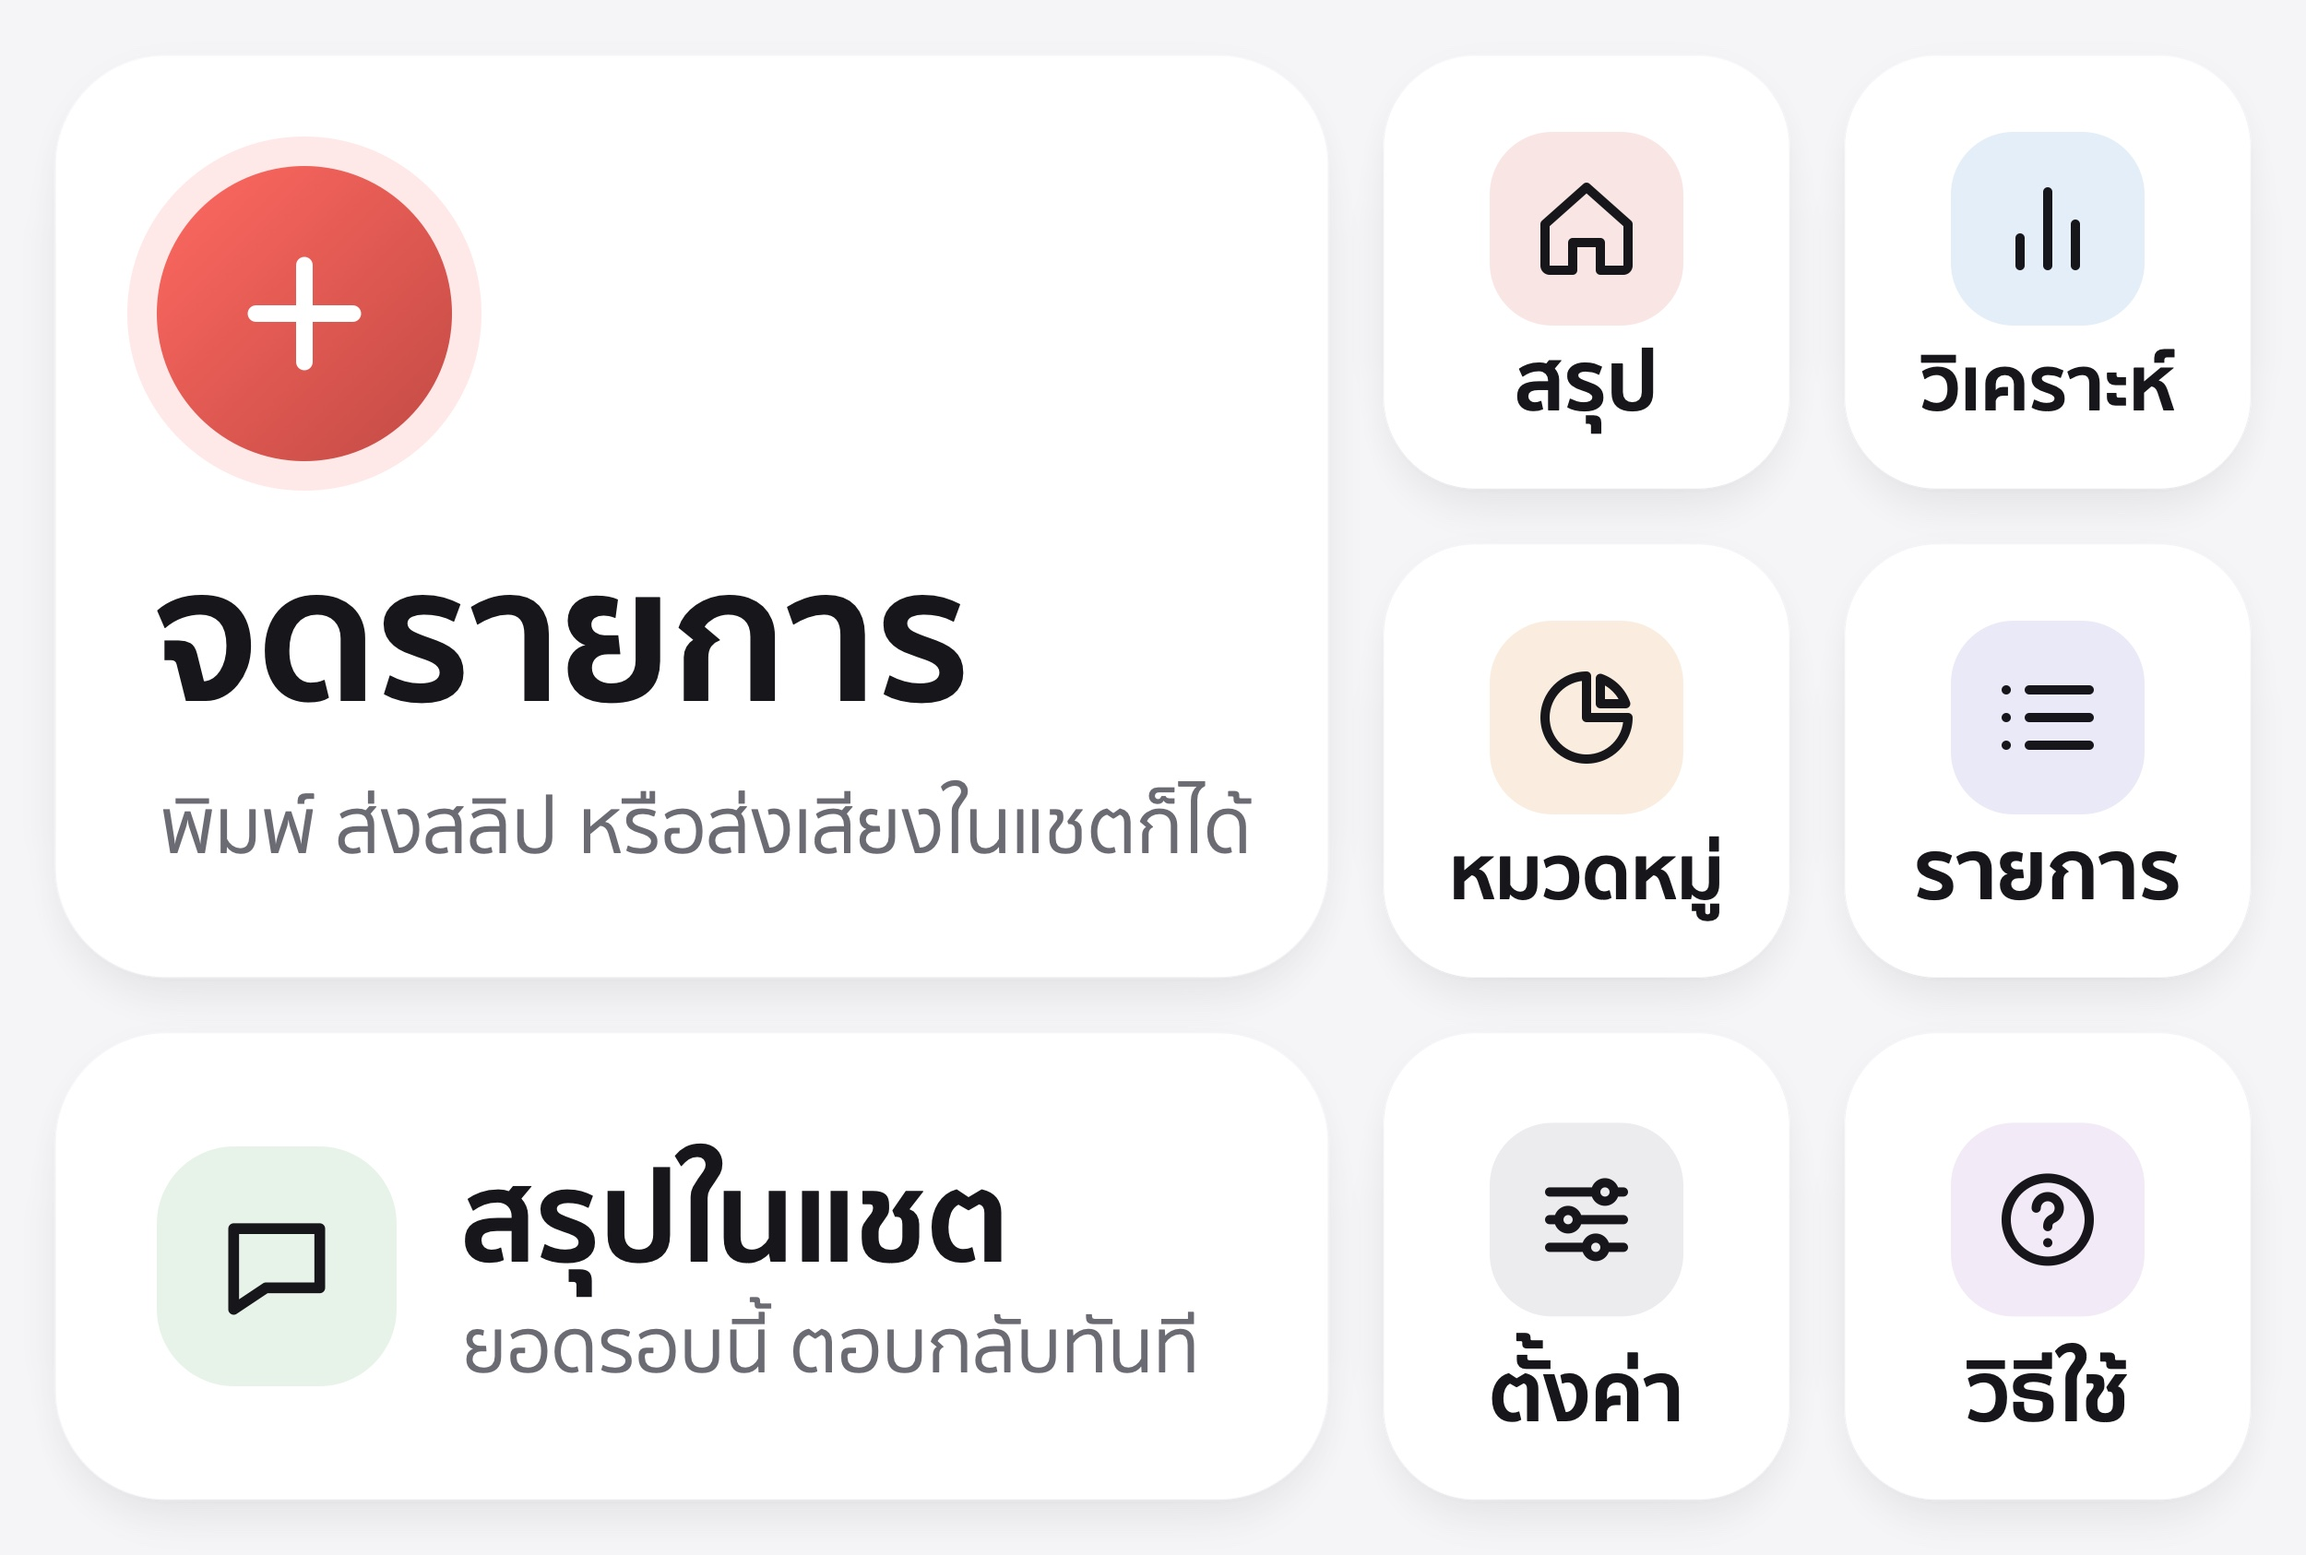
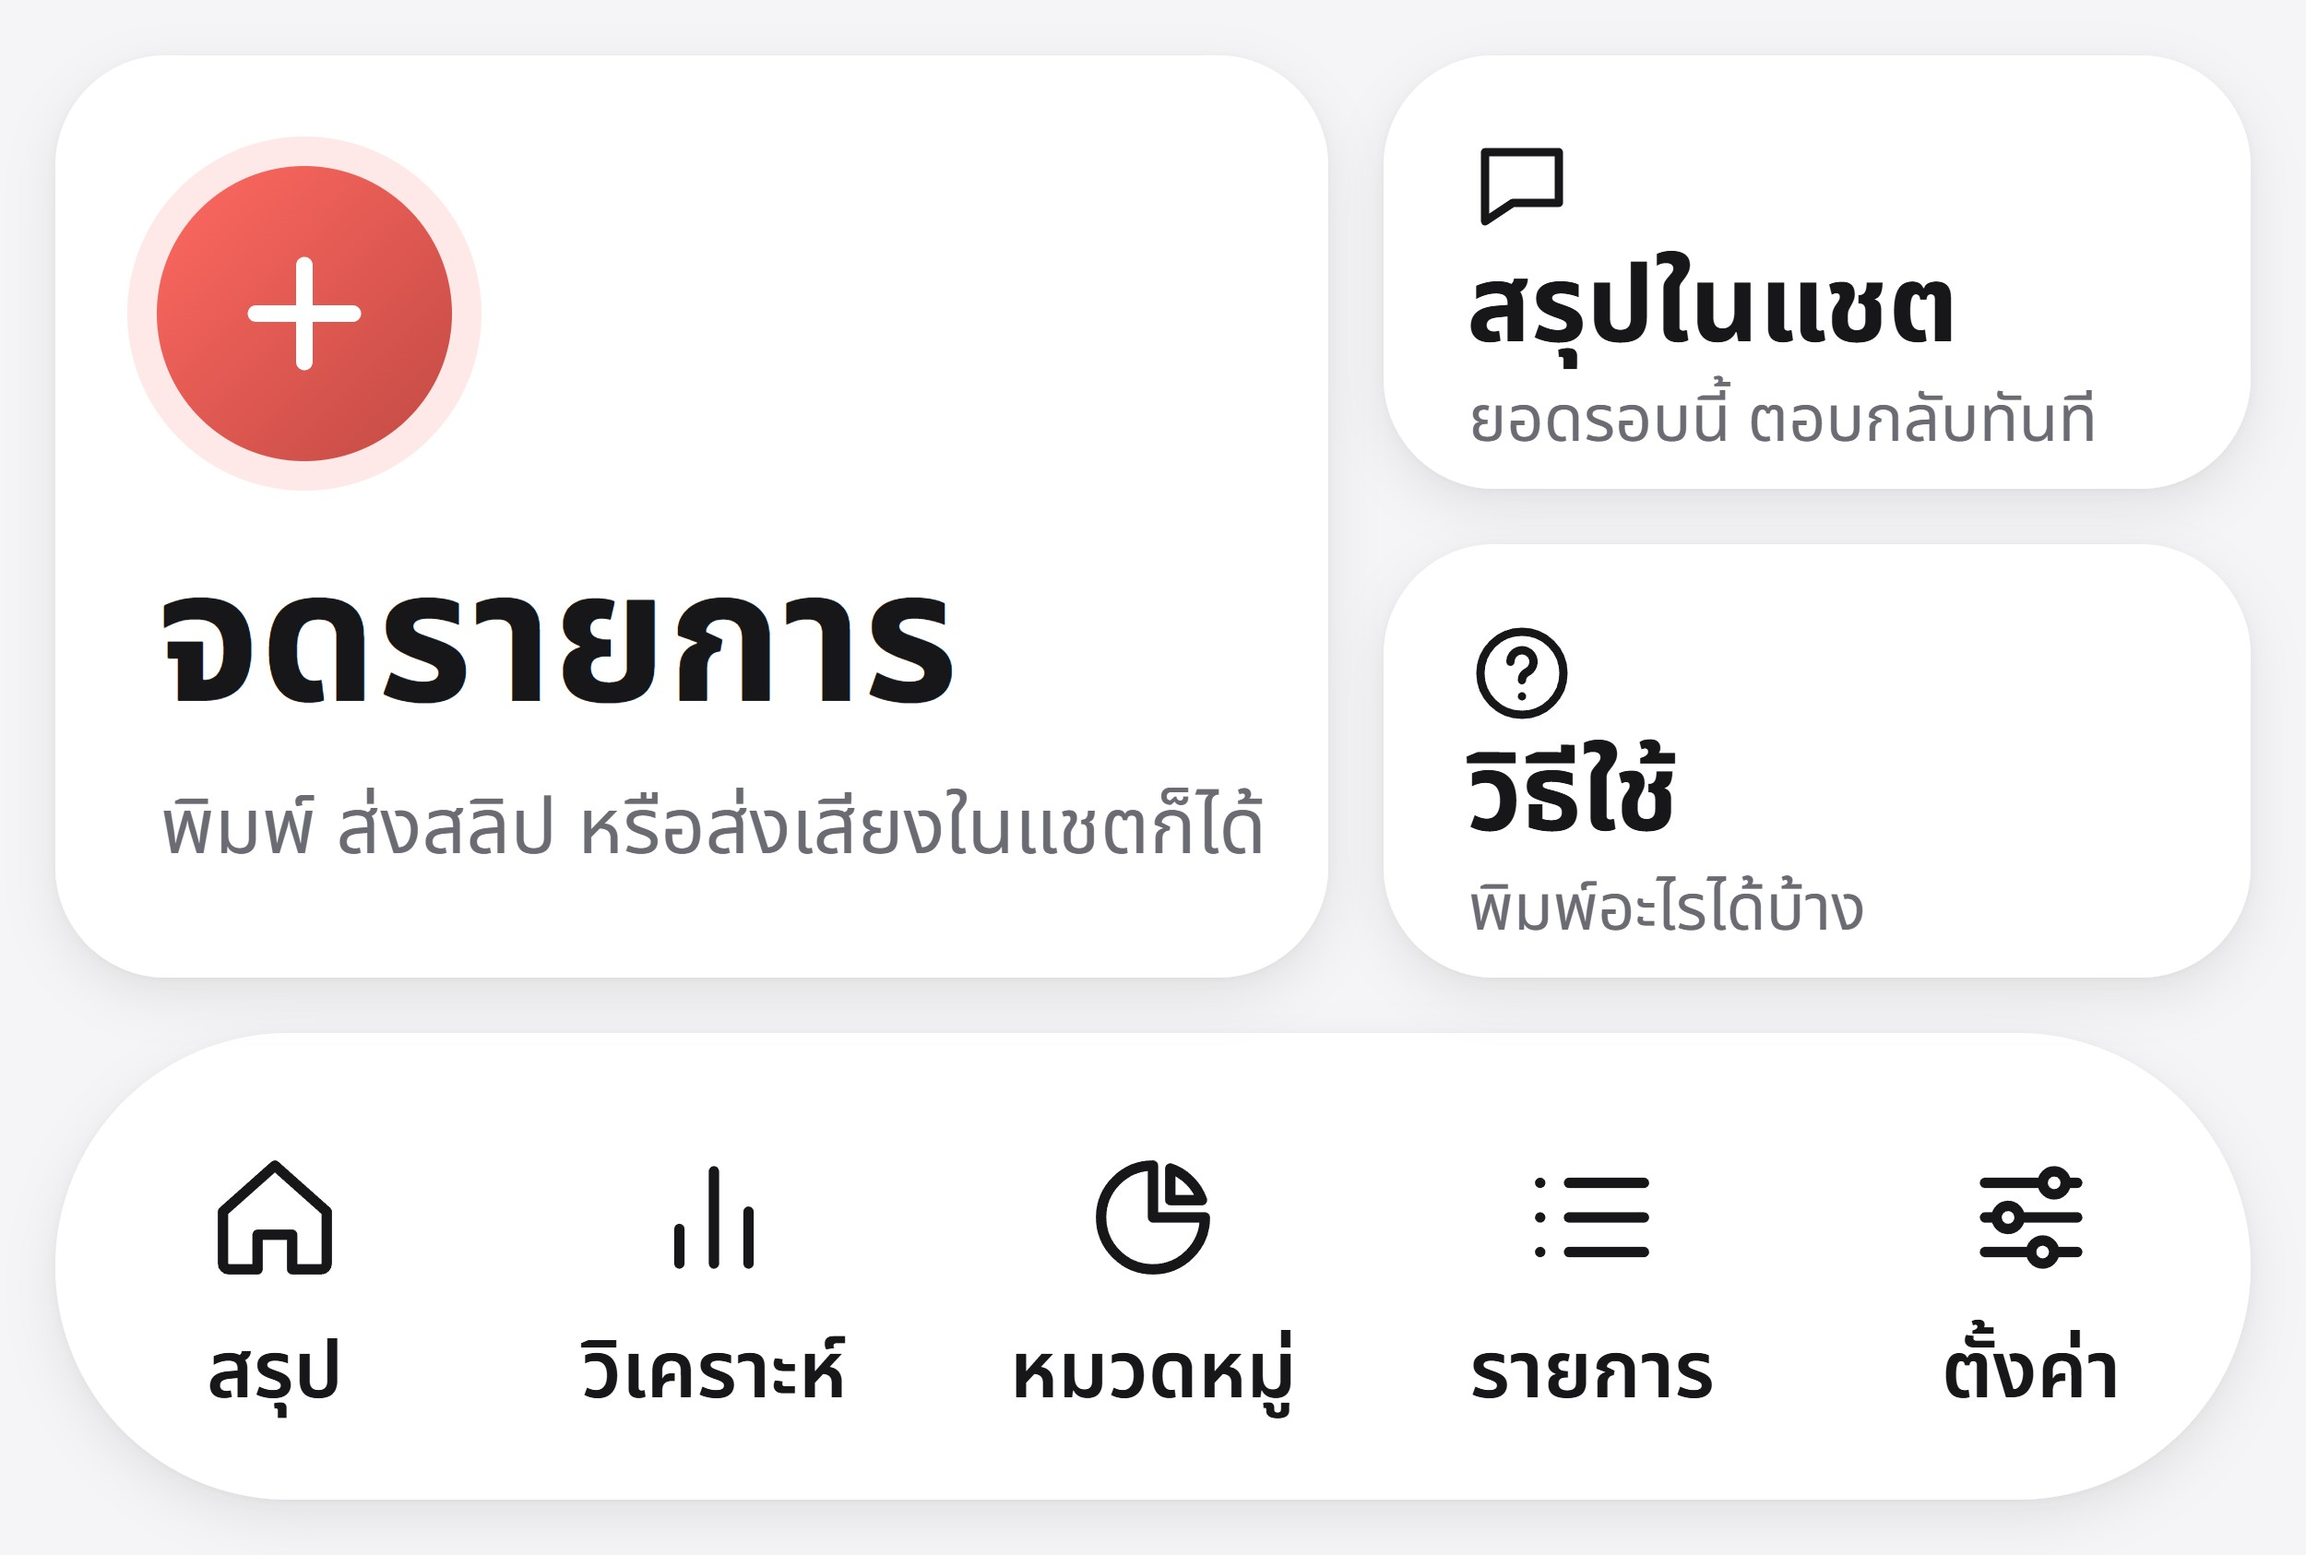
Redraw the chat menu as the web app's own: its + and its menu bar
The menu now mirrors the app's bottom: the big จดรายการ tile keeps the app's red + button,
สรุปในแชต and วิธีใช้ sit beside it, and along the bottom is the app's menu bar, one white
capsule with its five tabs (สรุป, วิเคราะห์, หมวดหมู่, รายการ, ตั้งค่า), drawn with the app's
own line icons and stroke instead of the coloured squares. MENU_TILES follows the new
boxes and MENU_VERSION is bumped, so every user's menu is rebuilt within one cron run.

make-menu.py now writes the SVG on any system and renders the JPEG itself only on macOS.
This menu.jpg was rendered from that SVG in Chrome with Noto Sans Thai, the loopless
Thai font closest to the iPhone's Sukhumvit Set, which a Mac would use instead (206 KB).

diff --git a/src/index.js b/src/index.js
@@ -194,9 +194,10 @@ const lineApi = (env, path, body, host = env.LINE_API || 'https://api.line.me') 
 
 // The tile menu under the chat. Each tile's position matches the artwork in public/menu.jpg (drawn from menu-source.svg).
 // 'add' and 'tab:*' tiles open the web app, the others are answered in the chat.
-const MENU_VERSION = 5;  // bump when the artwork or the tiles change, so every user's menu is rebuilt
-const MENU_TILES = [[60, 60, 1380, 1000, 'add'], [1500, 60, 440, 470, 'tab:sum'], [2000, 60, 440, 470, 'tab:ana'], [1500, 590, 440, 470, 'tab:bud'],
-  [2000, 590, 440, 470, 'tab:list'], [60, 1120, 1380, 506, 'sum'], [1500, 1120, 440, 506, 'tab:set'], [2000, 1120, 440, 506, 'help']];  // boxes from make-menu.py
+const MENU_VERSION = 6;  // bump when the artwork or the tiles change, so every user's menu is rebuilt
+// boxes from make-menu.py: the + and the two chat tiles, then the app's five tabs along the bottom bar
+const MENU_TILES = [[60, 60, 1380, 1000, 'add'], [1500, 60, 940, 470, 'sum'], [1500, 590, 940, 470, 'help'],
+  [60, 1120, 476, 506, 'tab:sum'], [536, 1120, 476, 506, 'tab:ana'], [1012, 1120, 476, 506, 'tab:bud'], [1488, 1120, 476, 506, 'tab:list'], [1964, 1120, 476, 506, 'tab:set']];
 
 // The app links carry a 45-day token, so each user's menu is rebuilt every 20 days, whenever they next talk to the bot.
 async function ensureMenu(env, origin, u) {

diff --git a/make-menu.py b/make-menu.py
@@ -1,9 +1,13 @@
-"""Draw the LINE chat menu (public/menu.jpg) in the web app's style. macOS only (renders with qlmanage + sips).
+"""Draw the LINE chat menu (public/menu.jpg) in the web app's style.
 
 Run: python3 make-menu.py
+It writes menu-source.svg on any system, and on macOS also renders public/menu.jpg from it (with qlmanage and sips).
+Elsewhere, render the SVG's middle 2500x1686 to a JPEG under 1 MB some other way, such as a headless browser with the
+Noto Sans Thai font loaded (the loopless Thai font closest to the iPhone's Sukhumvit Set).
 The tile boxes below must match MENU_TILES in src/index.js; bump MENU_VERSION there after changing the image.
 """
 import os
+import platform
 import subprocess
 import tempfile
 
@@ -19,23 +23,27 @@ ICON = {
     "chat": "M4 5h16v11H10l-6 4z",
     "plus": "M12 5v14M5 12h14",
 }
-# key, box (x, y, w, h), icon, label, subtitle, icon tint (the app's soft category colours)
+# Laid out like the app: the big red + to record an entry, and along the bottom the app's own menu bar, a white capsule
+# with its five tabs, their line icons and names. The two chat actions sit beside the +.
+BAR = (60, 1120, 2380, 506)
+TAB_W = BAR[2] // 5
+TABS = [("sum", "home", "สรุป"), ("ana", "bars", "วิเคราะห์"), ("bud", "pie", "หมวดหมู่"), ("list", "list", "รายการ"), ("set", "gear", "ตั้งค่า")]
+# key, box (x, y, w, h), icon, label, subtitle
 TILES = [
-    ("add", (60, 60, 1380, 1000), "plus", "จดรายการ", "พิมพ์ ส่งสลิป หรือส่งเสียงในแชตก็ได้", None),
-    ("sum", (1500, 60, 440, 470), "home", "สรุป", None, "#E58C84"),
-    ("ana", (2000, 60, 440, 470), "bars", "วิเคราะห์", None, "#86B2DE"),
-    ("bud", (1500, 590, 440, 470), "pie", "หมวดหมู่", None, "#E8AC72"),
-    ("list", (2000, 590, 440, 470), "list", "รายการ", None, "#9F9DDA"),
-    ("chat", (60, 1120, 1380, 506), "chat", "สรุปในแชต", "ยอดรอบนี้ ตอบกลับทันที", "#93C79C"),
-    ("set", (1500, 1120, 440, 506), "gear", "ตั้งค่า", None, "#A9A9B0"),
-    ("help", (2000, 1120, 440, 506), "help", "วิธีใช้", None, "#C3A0D8"),
-]
-FONT = "font-family=\"'Sukhumvit Set', Thonburi, -apple-system, sans-serif\""
+    ("add", (60, 60, 1380, 1000), "plus", "จดรายการ", "พิมพ์ ส่งสลิป หรือส่งเสียงในแชตก็ได้"),
+    ("chat", (1500, 60, 940, 470), "chat", "สรุปในแชต", "ยอดรอบนี้ ตอบกลับทันที"),
+    ("help", (1500, 590, 940, 470), "help", "วิธีใช้", "พิมพ์อะไรได้บ้าง"),
+] + [(key, (BAR[0] + i * TAB_W, BAR[1], TAB_W, BAR[3]), ic, label, None) for i, (key, ic, label) in enumerate(TABS)]
+FONT = "font-family=\"'Sukhumvit Set', 'Noto Sans Thai', Thonburi, -apple-system, sans-serif\""
 
 
-def icon(name, cx, cy, size, colour, width=2):
+def icon(name, cx, cy, size, colour, width=1.8):  # 1.8: the app's own stroke for these icons
     return (f'<g transform="translate({cx - size / 2} {cy - size / 2}) scale({size / 24})" fill="none" stroke="{colour}" '
             f'stroke-width="{width}" stroke-linecap="round" stroke-linejoin="round"><path d="{ICON[name]}"/></g>')
+
+
+def card(x, y, w, h, r):
+    return f'<rect x="{x}" y="{y}" width="{w}" height="{h}" rx="{r}" fill="#FFFFFF" filter="url(#lift)"/>'
 
 
 def svg():
@@ -44,38 +52,39 @@ def svg():
   <linearGradient id="btn" x1="0" y1="0" x2="1" y2="1"><stop offset="0" stop-color="#FF6961"/><stop offset="1" stop-color="#C24A44"/></linearGradient>
   <filter id="lift" x="-10%" y="-10%" width="120%" height="130%"><feDropShadow dx="0" dy="20" stdDeviation="28" flood-color="#000" flood-opacity=".08"/><feDropShadow dx="0" dy="2" stdDeviation="4" flood-color="#000" flood-opacity=".04"/></filter>
 </defs>""", f'<rect width="{W}" height="{W}" fill="#F5F5F7"/>', f'<g transform="translate(0 {(W - H) // 2})">']
-    for key, (x, y, w, h), ic, label, sub, tint in TILES:
-        r = 120 if w > 500 else 100
-        out.append(f'<rect x="{x}" y="{y}" width="{w}" height="{h}" rx="{r}" fill="#FFFFFF" filter="url(#lift)"/>')
-        if key == "add":
+    out.append(card(*BAR, BAR[3] // 2))  # the tabs share one capsule, as in the app
+    for key, (x, y, w, h), ic, label, sub in TILES:
+        if key == "add":  # the app's + button: the red gradient with its soft red ring
+            out.append(card(x, y, w, h, 120))
             cx, cy = x + 270, y + 280
             out.append(f'<circle cx="{cx}" cy="{cy}" r="192" fill="#FF6961" fill-opacity=".15"/>')
             out.append(f'<circle cx="{cx}" cy="{cy}" r="160" fill="url(#btn)"/>')
             out.append(icon(ic, cx, cy, 180, "#FFFFFF", 2.4))
             out.append(f'<text x="{x + 110}" y="{y + 700}" {FONT} font-weight="bold" font-size="200" fill="{LABEL}">{label}</text>')
             out.append(f'<text x="{x + 114}" y="{y + 865}" {FONT} font-size="84" fill="{LABEL2}">{sub}</text>')
-        elif key == "chat":
-            cx, cy = x + 240, y + h / 2
-            out.append(f'<rect x="{cx - 130}" y="{cy - 130}" width="260" height="260" rx="84" fill="{tint}" fill-opacity=".22"/>')
-            out.append(icon(ic, cx, cy, 140, LABEL))
-            out.append(f'<text x="{x + 440}" y="{y + h / 2 - 5}" {FONT} font-weight="bold" font-size="136" fill="{LABEL}">{label}</text>')
-            out.append(f'<text x="{x + 442}" y="{y + h / 2 + 115}" {FONT} font-size="82" fill="{LABEL2}">{sub}</text>')
-        else:
-            cx, cy = x + w / 2, y + h * .4
-            out.append(f'<rect x="{cx - 105}" y="{cy - 105}" width="210" height="210" rx="68" fill="{tint}" fill-opacity=".22"/>')
-            out.append(icon(ic, cx, cy, 120, LABEL))
-            out.append(f'<text x="{cx}" y="{y + h - 85}" text-anchor="middle" {FONT} font-weight="bold" font-size="{90 if len(label) < 8 else 82}" fill="{LABEL}">{label}</text>')
+        elif sub:  # สรุปในแชต and วิธีใช้: icon, name, and a grey line
+            out.append(card(x, y, w, h, 120))
+            out.append(icon(ic, x + 150, y + 140, 120, LABEL))
+            out.append(f'<text x="{x + 90}" y="{y + 310}" {FONT} font-weight="bold" font-size="116" fill="{LABEL}">{label}</text>')
+            out.append(f'<text x="{x + 92}" y="{y + 418}" {FONT} font-size="70" fill="{LABEL2}">{sub}</text>')
+        else:  # a tab of the bar: the icon over its name, as in the app's menu bar
+            cx = x + w / 2
+            out.append(icon(ic, cx, y + 200, 150, LABEL))
+            out.append(f'<text x="{cx}" y="{y + 395}" text-anchor="middle" {FONT} font-weight="600" font-size="86" fill="{LABEL}">{label}</text>')
     out += ["</g>", "</svg>"]
     return "\n".join(out)
 
 
 if __name__ == "__main__":
     here = os.path.dirname(os.path.abspath(__file__))
-    with open(os.path.join(here, "menu-source.svg"), "w", encoding="utf-8") as f:
-        f.write(svg())
-    with tempfile.TemporaryDirectory() as tmp:
-        subprocess.run(["qlmanage", "-t", "-s", str(W), "-o", tmp, os.path.join(here, "menu-source.svg")], check=True, capture_output=True)
-        png = os.path.join(tmp, "menu-source.svg.png")
-        subprocess.run(["sips", "-c", str(H), str(W), png, "--out", png], check=True, capture_output=True)
-        subprocess.run(["sips", "-s", "format", "jpeg", "-s", "formatOptions", "90", png, "--out", os.path.join(here, "public", "menu.jpg")], check=True, capture_output=True)
-    print("tiles for MENU_TILES:", [list(box) for _, box, *_ in TILES])
+    with open(os.path.join(here, "menu-source.svg"), "w", encoding="utf-8", newline="\n") as f:
+        f.write(svg() + "\n")
+    if platform.system() == "Darwin":
+        with tempfile.TemporaryDirectory() as tmp:
+            subprocess.run(["qlmanage", "-t", "-s", str(W), "-o", tmp, os.path.join(here, "menu-source.svg")], check=True, capture_output=True)
+            png = os.path.join(tmp, "menu-source.svg.png")
+            subprocess.run(["sips", "-c", str(H), str(W), png, "--out", png], check=True, capture_output=True)
+            subprocess.run(["sips", "-s", "format", "jpeg", "-s", "formatOptions", "90", png, "--out", os.path.join(here, "public", "menu.jpg")], check=True, capture_output=True)
+    else:
+        print(f"wrote menu-source.svg; render its middle {W}x{H} to public/menu.jpg (see the note at the top)")
+    print("tiles for MENU_TILES:", [[*box, key] for key, box, *_ in TILES])
